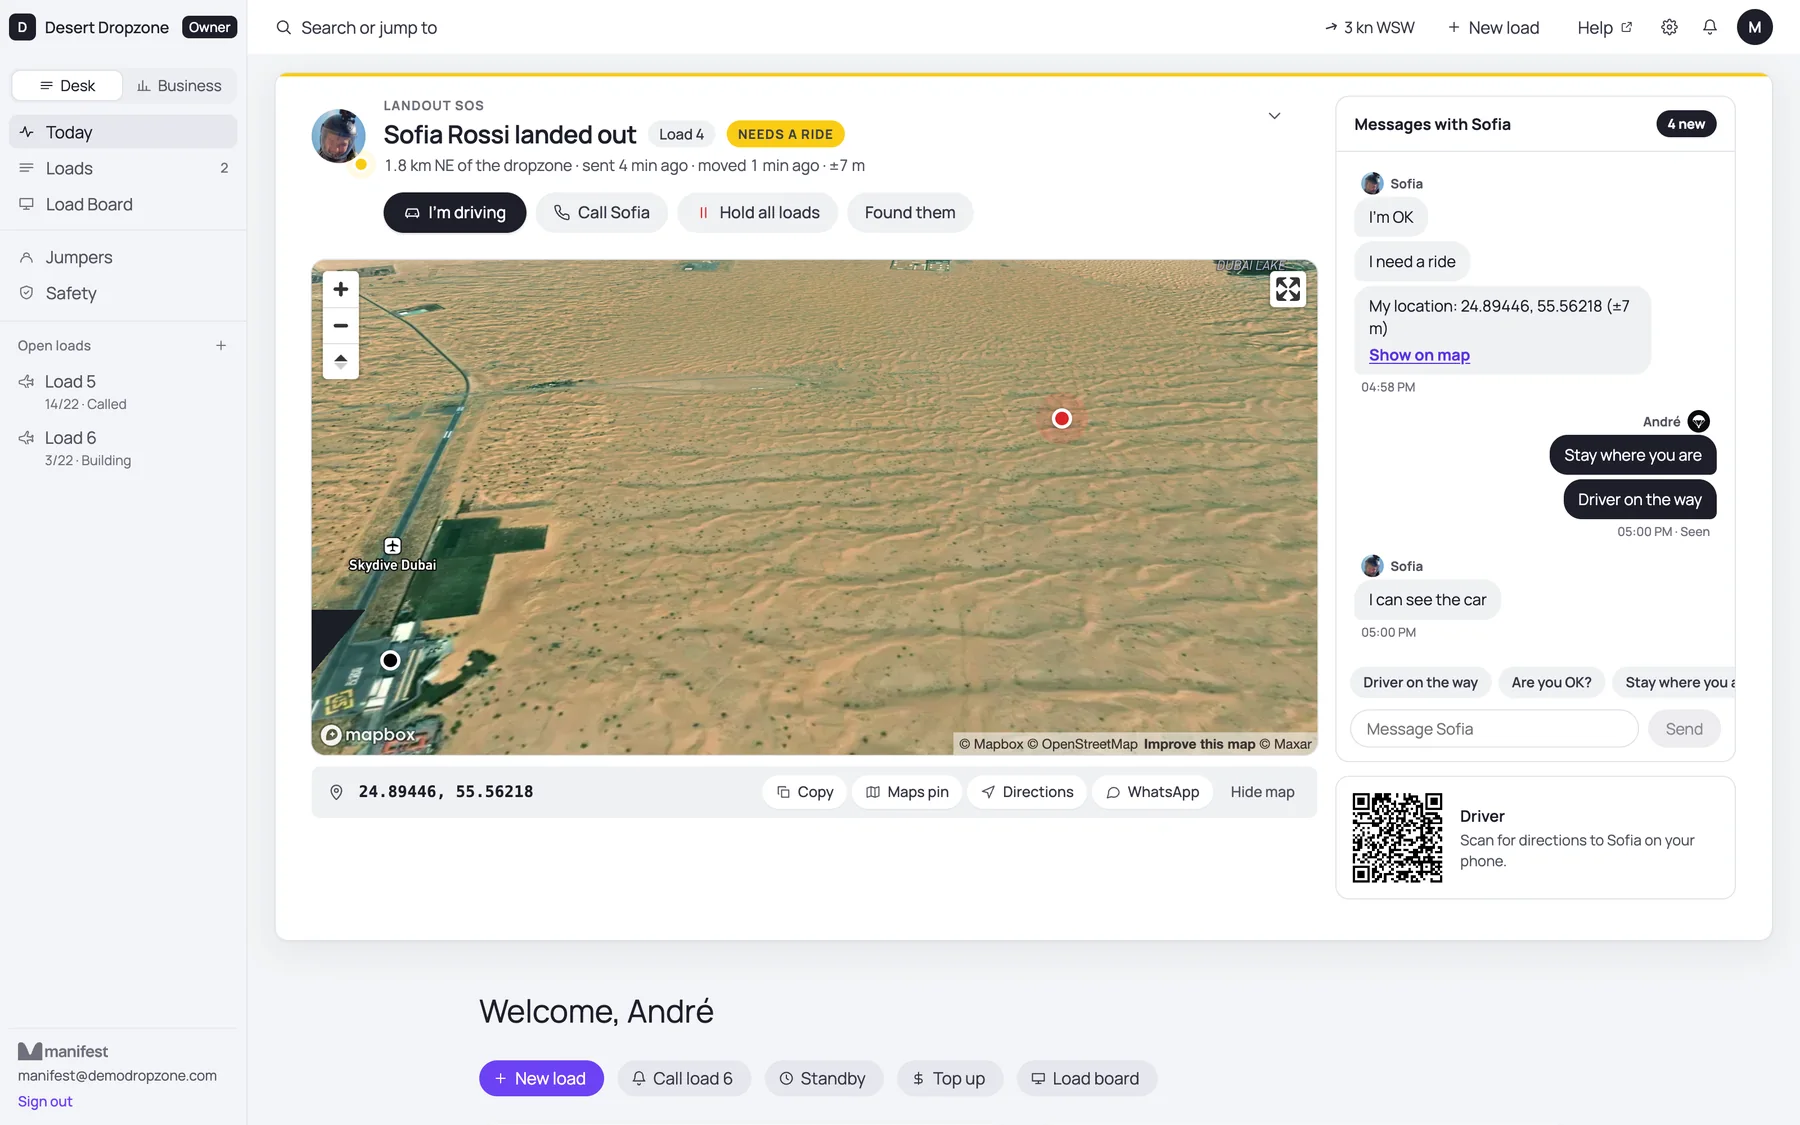
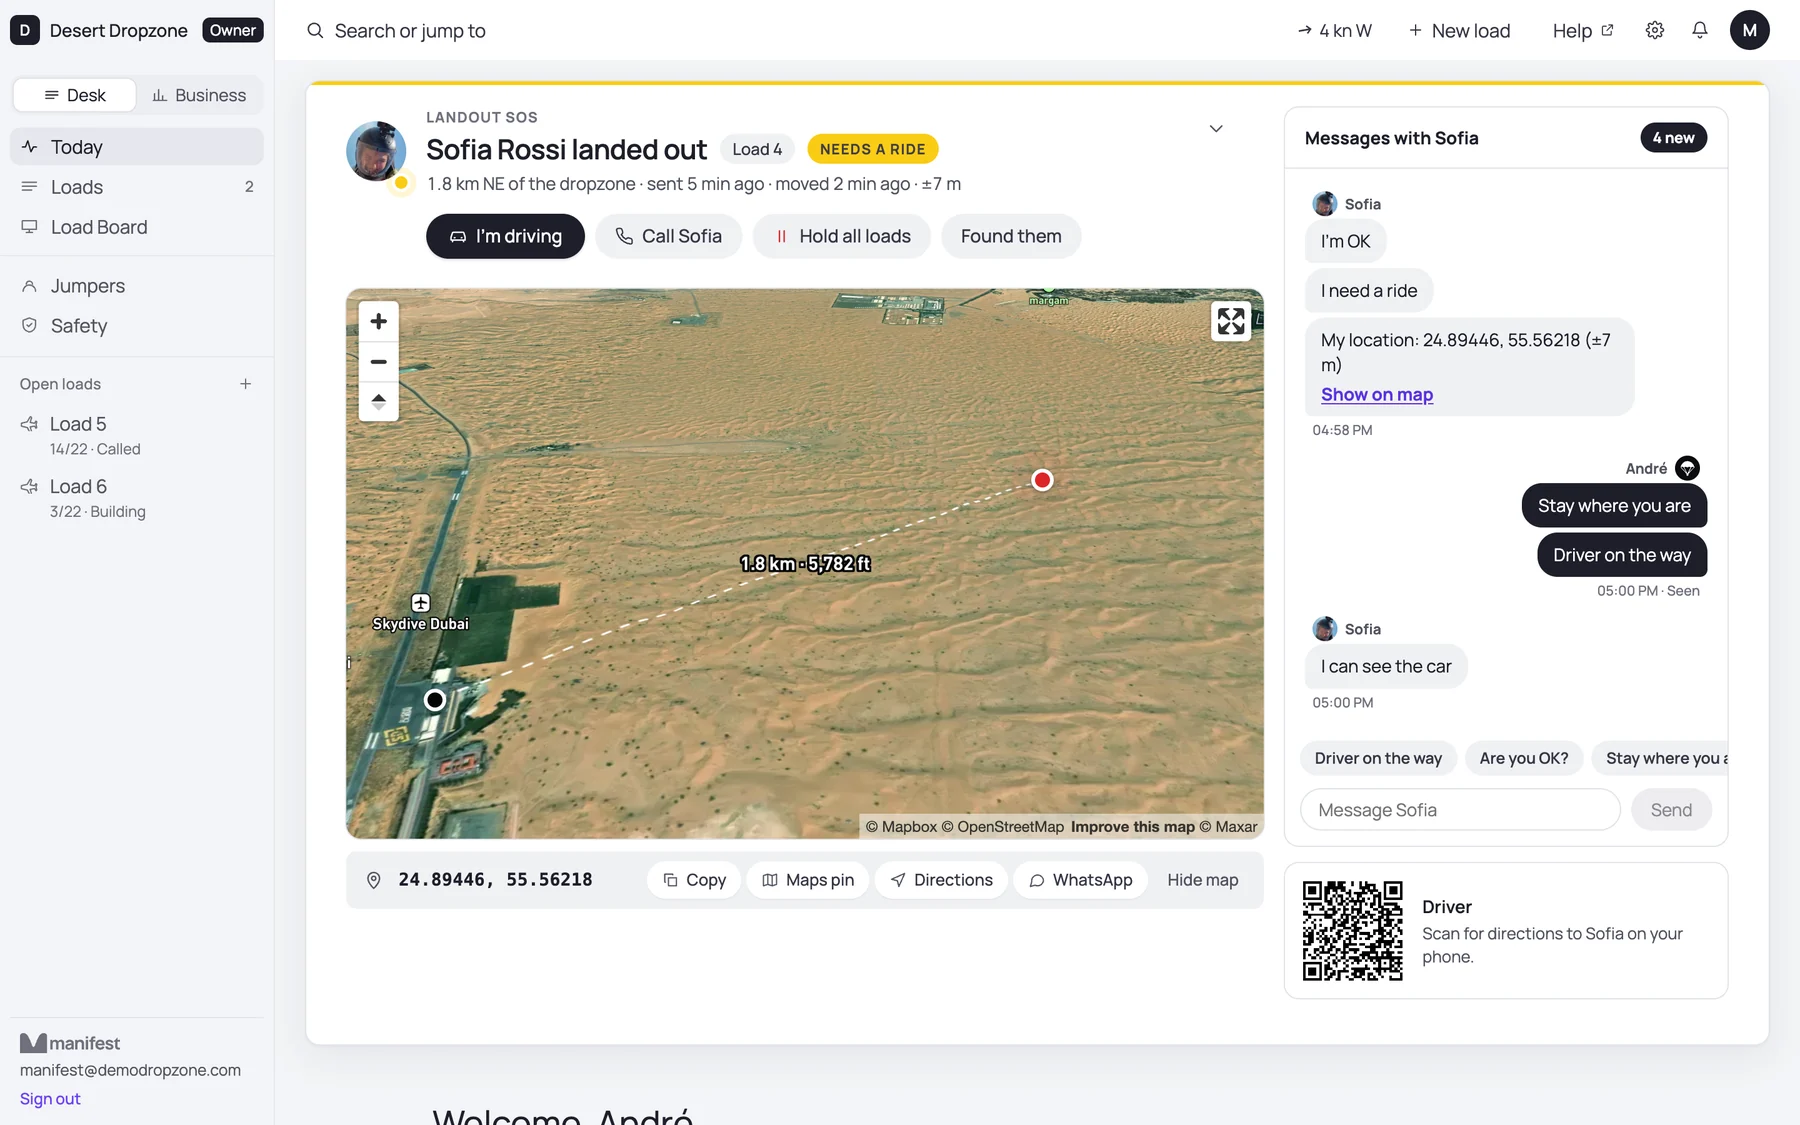
Landout desk shots: the dashed line and distance back on the map

diff --git a/dropzones/index.html b/dropzones/index.html
@@ -1170,7 +1170,7 @@ section[id], header[id], div[id] { scroll-margin-top: 96px; }
         <p class="cr-eye">Landouts</p>
         <h3>&ldquo;Where&rsquo;s the jumper who landed&nbsp;out?&rdquo;</h3>
         <p class="cr-line">On your map, with a pin for the driver.</p>
-        <div class="cr-pic cr-desk"><img src="/assets/features/desk-landout.webp" width="1400" height="825" alt="A landout on Manifest Desk with the jumper on a satellite map" loading="lazy" decoding="async" /></div>
+        <div class="cr-pic cr-desk"><img src="/assets/features/desk-landout.webp?v=2" width="1400" height="825" alt="A landout on Manifest Desk with the jumper on a satellite map" loading="lazy" decoding="async" /></div>
       </article>
       <article class="cr-card">
         <p class="cr-eye">3D replays</p>
@@ -1431,7 +1431,7 @@ section[id], header[id], div[id] { scroll-margin-top: 96px; }
       </figure>
       <figure class="bt bt-wide bt-col">
         <figcaption><b>Landouts on a live map.</b><span>See them, message them, send a driver.</span></figcaption>
-        <img class="bt-shot bt-edge" src="/assets/features/desk-landout.webp" width="1400" height="825" alt="Landout SOS on Manifest Desk with the jumper on a satellite map and a chat" loading="lazy" decoding="async">
+        <img class="bt-shot bt-edge" src="/assets/features/desk-landout.webp?v=2" width="1400" height="825" alt="Landout SOS on Manifest Desk with the jumper on a satellite map and a chat" loading="lazy" decoding="async">
       </figure>
       <figure class="bt bt-narrow bt-col bt-center">
         <figcaption><b>Paid in one tap.</b><span>Card or cash, with a receipt.</span></figcaption>

diff --git a/dropzones-apple/index.html b/dropzones-apple/index.html
@@ -1019,7 +1019,7 @@ section[id], header[id], div[id] { scroll-margin-top: 96px; }
       <p class="ap-sub ap-fade">One tap from them. Their spot on your map.</p>
       <figure class="ap-media ap-dv ap-fade">
         <div class="dv">
-          <div class="lap"><div class="lap-lid"><div class="lap-screen"><img src="/assets/features/desk-sos-laptop.webp" width="1800" height="1125" alt="A landout on Manifest Desk, with the jumper on a map and a chat" loading="lazy" decoding="async" /></div></div><div class="lap-base"><i></i></div></div>
+          <div class="lap"><div class="lap-lid"><div class="lap-screen"><img src="/assets/features/desk-sos-laptop.webp?v=2" width="1800" height="1125" alt="A landout on Manifest Desk, with the jumper on a map and a chat" loading="lazy" decoding="async" /></div></div><div class="lap-base"><i></i></div></div>
           <img class="dv-phone" src="/assets/landout-phone.webp" width="640" height="1325" alt="The landout chat in the Manifest app, sharing the jumper's location" loading="lazy" decoding="async" />
         </div>
       </figure>
